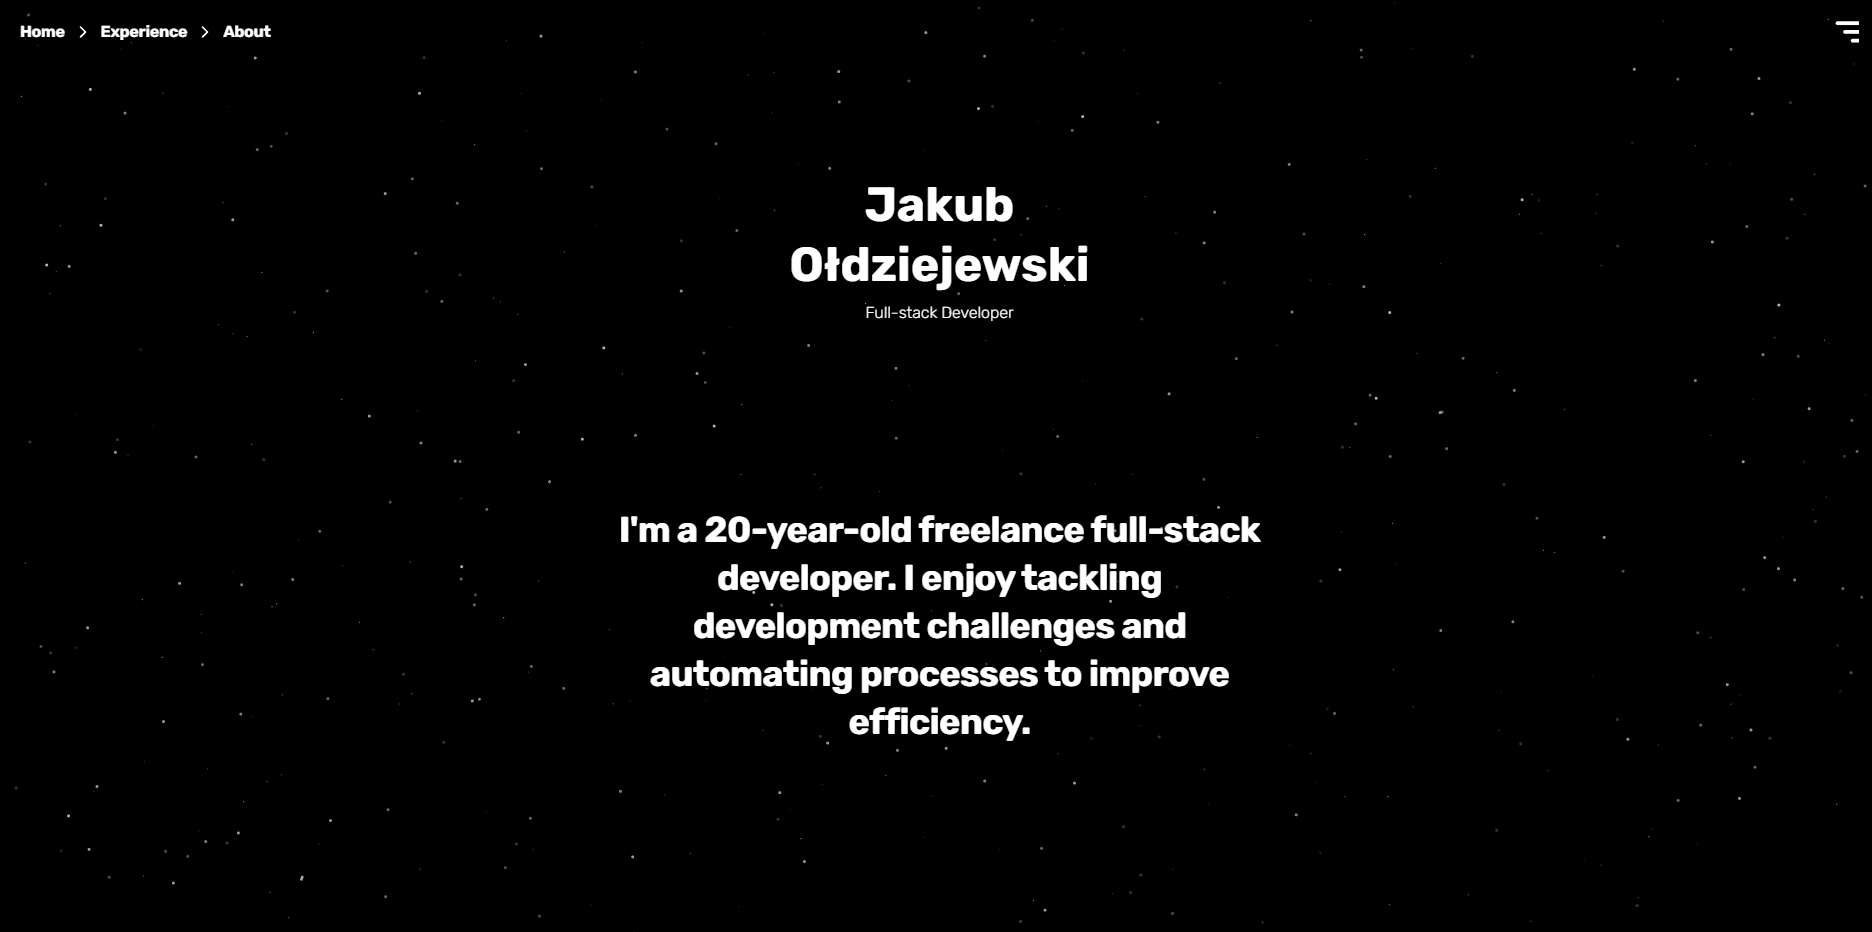
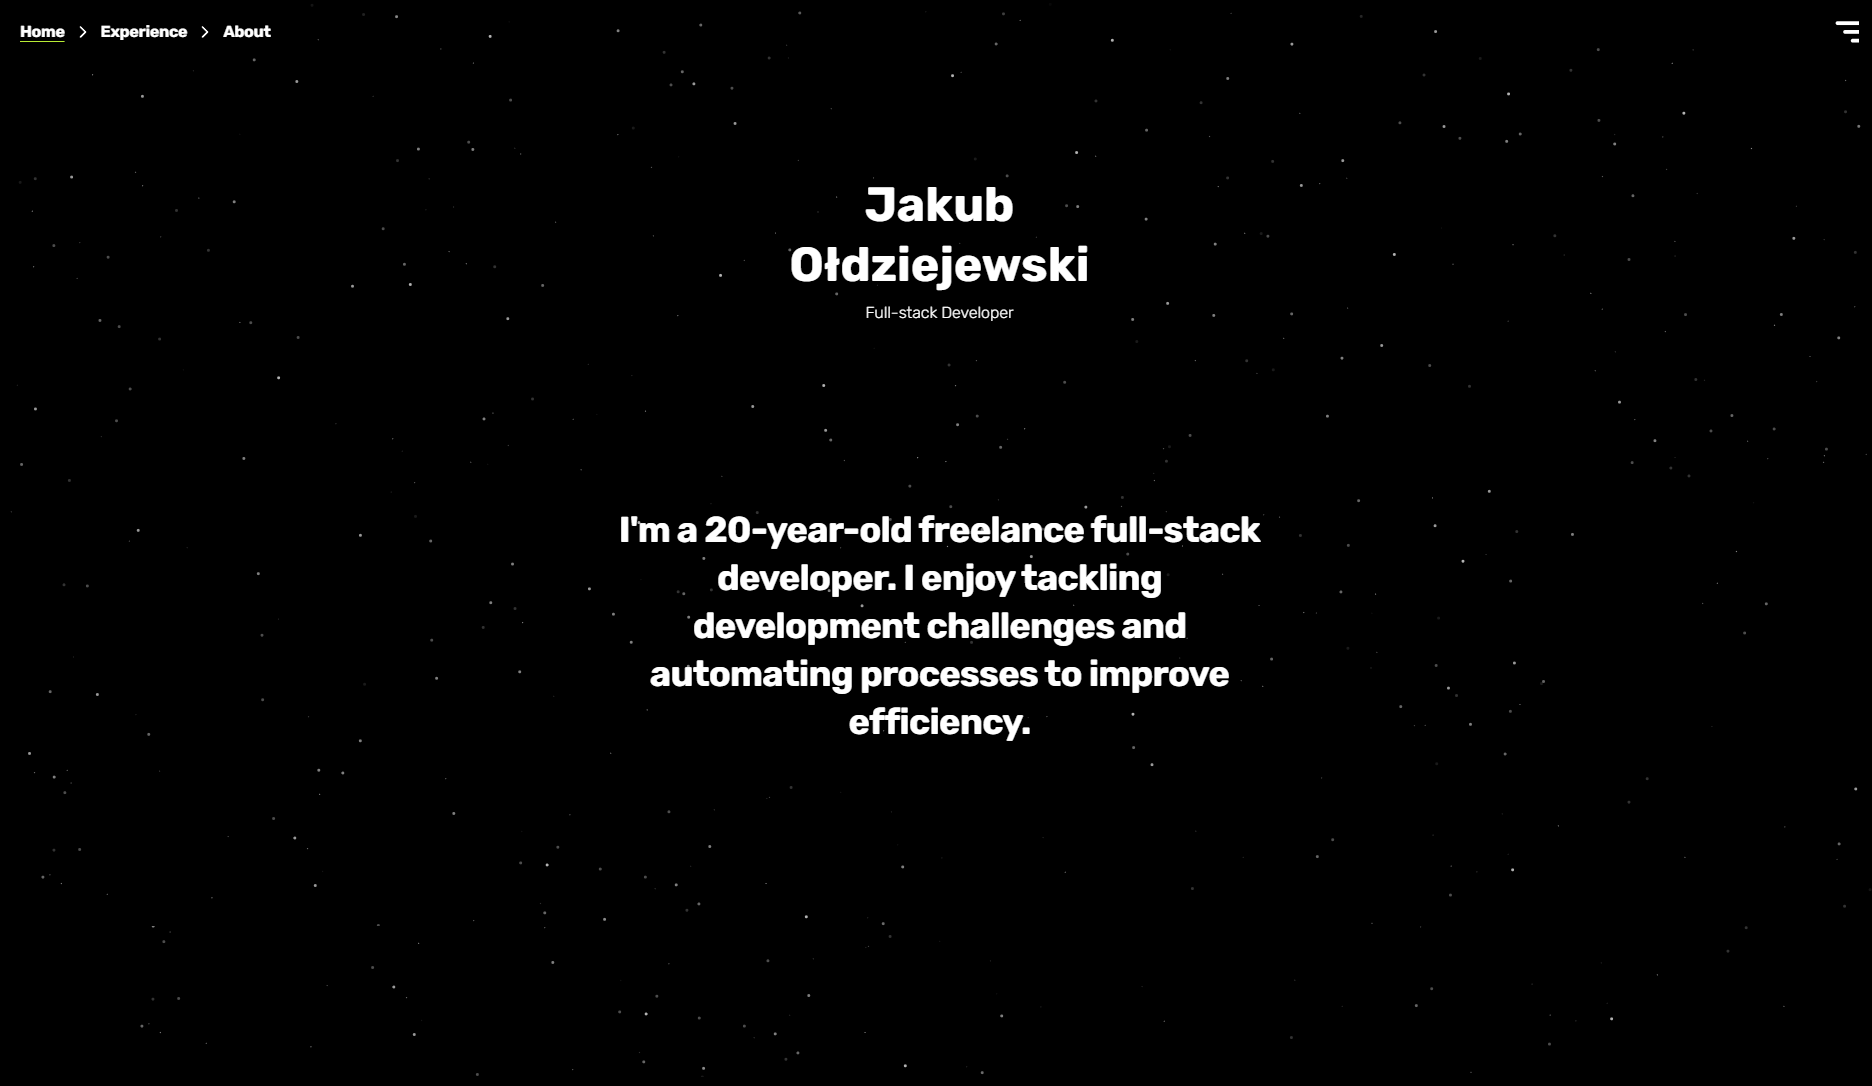
portfolio

diff --git a/frontend/src/components/Portfolio/Navbar.jsx b/frontend/src/components/Portfolio/Navbar.jsx
@@ -35,7 +35,7 @@ function Navbar({ currentPage, pagesRefs, projectsRedirect, setScrolledToProject
 
   const handlePaginationClick = (event, i) => {
     event.preventDefault();
-    scrollToTop(pagesRefs[i].current.offsetTop - 64);
+    scrollToTop(pagesRefs[i].current.offsetTop - 128);
   };
 
   const handleClickOutside = (event) => {
@@ -44,15 +44,15 @@ function Navbar({ currentPage, pagesRefs, projectsRedirect, setScrolledToProject
     }
   }
 
-  useMotionValueEvent(scrollY, "change", (latest) => {
-    const previous = scrollY.getPrevious();
-    if (latest > previous && latest > 150 && isMobile) {
-      setFirstAnimation(false);
-      // setIsHidden(true);
-    } else {
-      // setIsHidden(false);
-    }
-  });
+  // useMotionValueEvent(scrollY, "change", (latest) => {
+  //   const previous = scrollY.getPrevious();
+  //   if (latest > previous && latest > 150 && isMobile) {
+  //     setFirstAnimation(false);
+  //     setIsHidden(true);
+  //   } else {
+  //     setIsHidden(false);
+  //   }
+  // });
 
   useEffect(() => {
     if (isHidden && isOpen) toggleOpen();
@@ -88,7 +88,7 @@ function Navbar({ currentPage, pagesRefs, projectsRedirect, setScrolledToProject
             <div key={name} className='flex items-center gap-2 h-[24px]'>
               <WordFadeIn
                 onClick={(e) => handlePaginationClick(e, i)}
-                className={`cursor-pointer ${currentPage === i + 1 ? 'underline transition-all hover:decoration-pink decoration-lime underline-offset-4' : 'no-underline'} text-white`}
+                className={`cursor-pointer ${currentPage === i + 1 ? 'underline transition-all decoration-lime underline-offset-4' : 'no-underline'} text-white`}
                 words={name}
               />
               {currentPagesNames.length > 1 && i !== currentPagesNames.length - 1 && <BreadcrumbSeparator className='[&>svg]:size-5' />}

diff --git a/frontend/src/components/Portfolio/ExperienceComponents/ProjectsDrawer.jsx b/frontend/src/components/Portfolio/ExperienceComponents/ProjectsDrawer.jsx
@@ -10,6 +10,8 @@ function ProjectsDrawer({ params }) {
   const { langText } = useContext(LangContext);
   const [drawerOpen, setDrawerOpen] = useState(false);
 
+  const windowHeight = window.innerHeight;
+
   useEffect(() => {
     if (scrolledToProjects && projectsRedirect) setDrawerOpen(true);
   }, [scrolledToProjects]);
@@ -19,12 +21,16 @@ function ProjectsDrawer({ params }) {
     setDrawerOpen(true);
   }
 
+  useEffect(() => {
+    console.log(windowHeight);
+  }, []);
+
   return (
     <Drawer open={drawerOpen} onClose={() => setDrawerOpen(false)}>
       <DrawerTrigger asChild>
         <Button variant="outline_lime" onClick={(e) => handleOpeningDrawer(e)}>{langText.experience?.button || 'Projects'}</Button>
       </DrawerTrigger>
-      <DrawerContent className='container_no_nav border-slate-800 backdrop-filter backdrop-blur-sm text-white'>
+      <DrawerContent style={{ height: windowHeight - 64}} className='border-slate-800 backdrop-filter backdrop-blur-sm text-white'>
       <ScrollArea className="h-full w-full sm:p-10 sm:pt-4 p-4">
         <ExperienceProjects />
       </ScrollArea>

diff --git a/frontend/src/components/Portfolio/ExperienceComponents/IconClouds.jsx b/frontend/src/components/Portfolio/ExperienceComponents/IconClouds.jsx
@@ -1,6 +1,6 @@
 import IconCloud from '@/components/ui/magicui/icon-cloud';
 import { motion } from 'framer-motion';
-import React from 'react'
+import React, { memo } from 'react'
 
 const programmingLanguages = [
   "typescript",
@@ -60,14 +60,14 @@ function IconClouds() {
       initial={{  opacity: isMobile ? 1 : 0 }}
       whileInView={{ opacity: 1 }}
       transition={{ duration: 0.8 }}
-      viewport={{ once: true, amount: 0.3 }}
+      viewport={{ once: true, amount: 0.3, offset: 0 }}
       className='flex gap-10 flex-col sm:flex-row pointer-events-none sm:pointer-events-auto'
     >
       <IconCloud iconSlugs={programmingLanguages} />
-      <IconCloud iconSlugs={frameworks} />
-      <IconCloud iconSlugs={services} />
+        <IconCloud iconSlugs={frameworks} />
+        <IconCloud iconSlugs={services} />
     </motion.div>
   )
 }
 
-export default IconClouds
+export default memo(IconClouds);

diff --git a/frontend/src/components/Portfolio/About.jsx b/frontend/src/components/Portfolio/About.jsx
@@ -1,6 +1,6 @@
-import React from 'react'
-import { motion, useInView } from 'framer-motion'
-import AboutBentoGrid from './AboutComponents/AboutBentoGrid'
+import React from 'react';
+import { motion, useInView } from 'framer-motion';
+import AboutBentoGrid from './AboutComponents/AboutBentoGrid';
 
 function About({ aboutRef }) {
   const aboutInView = useInView(aboutRef, { amount: 0.9 });

diff --git a/frontend/src/components/Portfolio/Experience.jsx b/frontend/src/components/Portfolio/Experience.jsx
@@ -1,4 +1,4 @@
-import React from 'react';
+import React, { memo } from 'react';
 import IconClouds from './ExperienceComponents/IconClouds';
 import ProjectsDrawer from './ExperienceComponents/ProjectsDrawer';
 
@@ -18,4 +18,4 @@ function Experience({ params }) {
   )
 }
 
-export default Experience
+export default memo(Experience);

diff --git a/frontend/src/pages/Portfolio/Home.jsx b/frontend/src/pages/Portfolio/Home.jsx
@@ -43,10 +43,6 @@ function Home() {
     }
   }, []);
 
-  useEffect(() => {
-   console.log("cp", currentPage); 
-  }, [currentPage]);
-
   const experienceParams = { experienceRef, projectsRedirect, scrolledToProjects };
 
   return (
